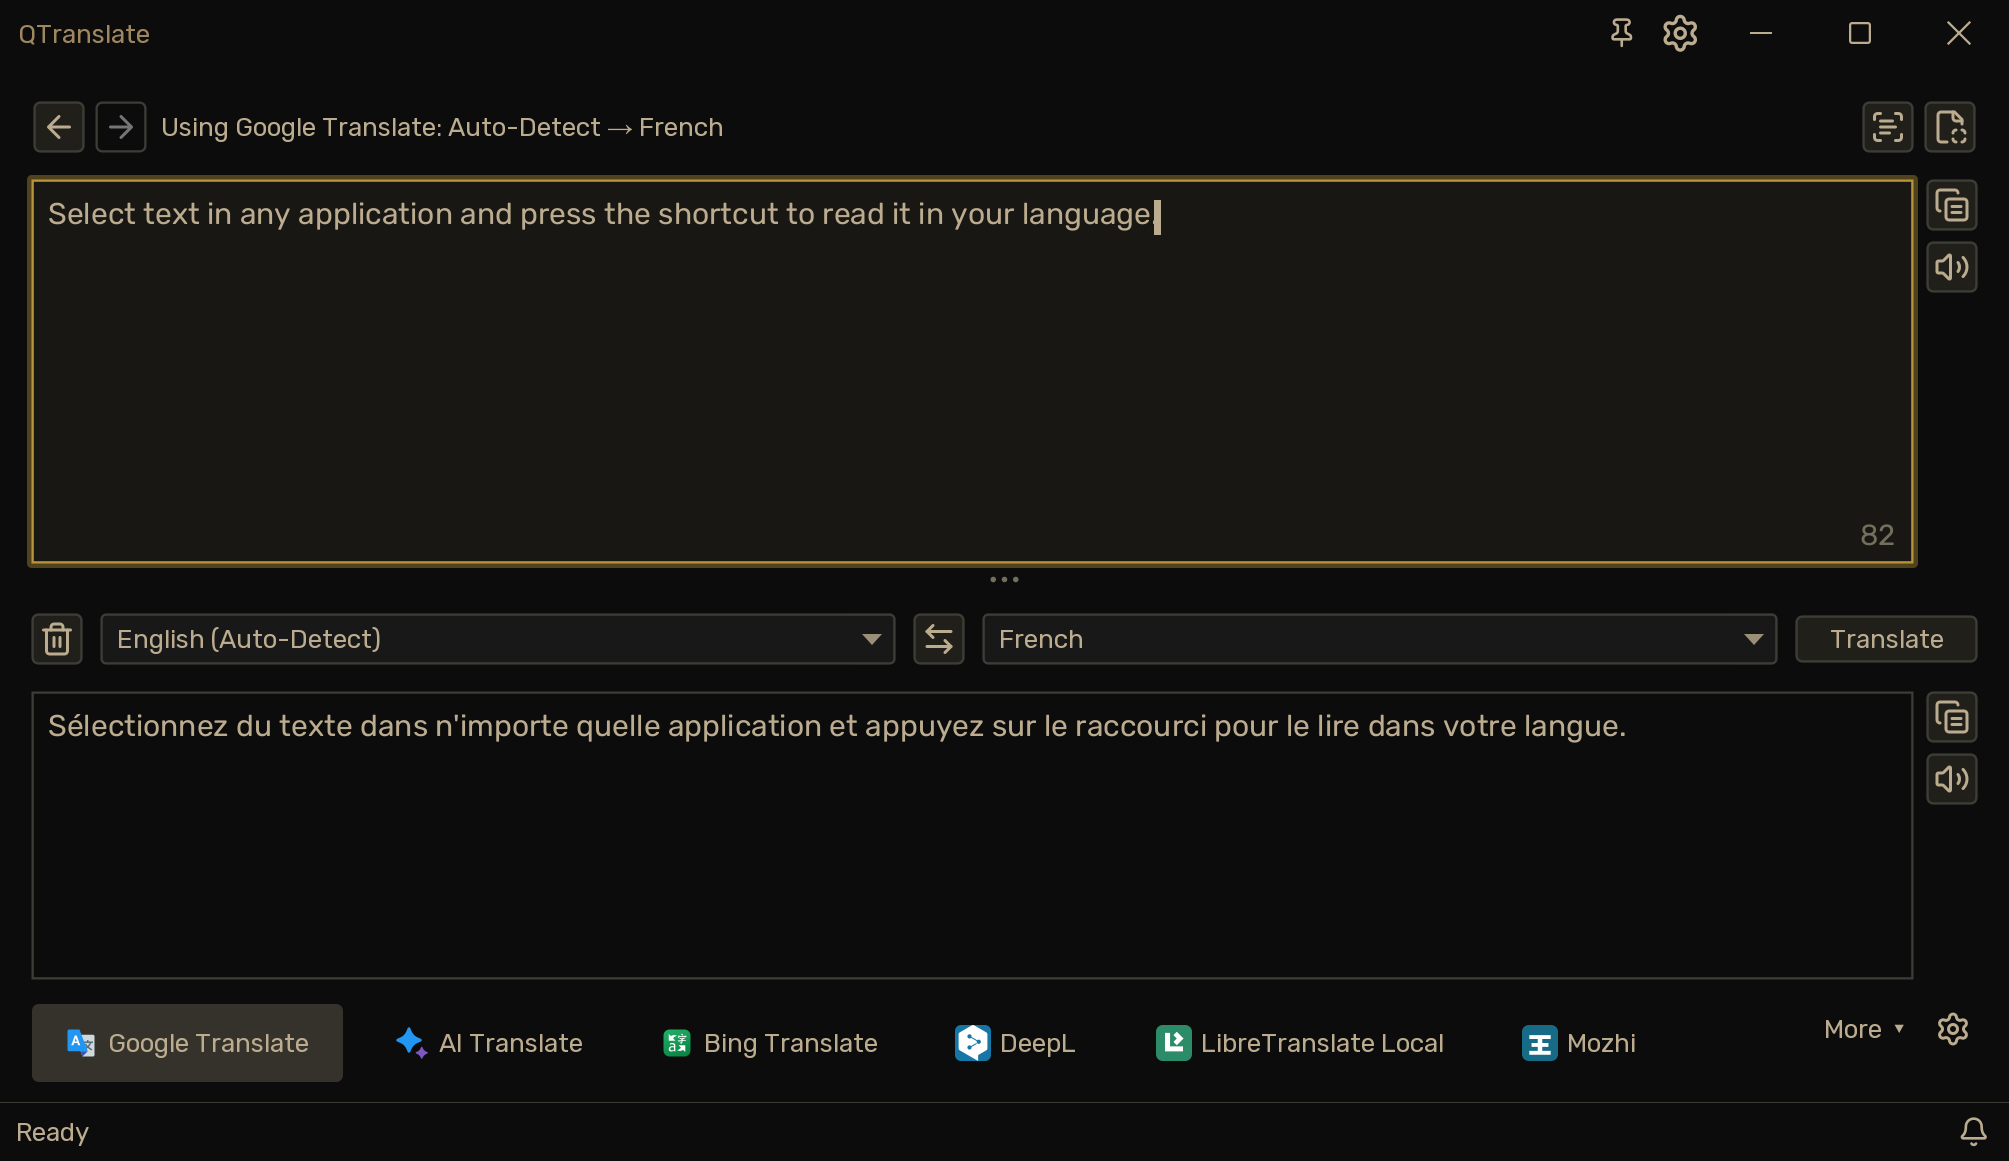
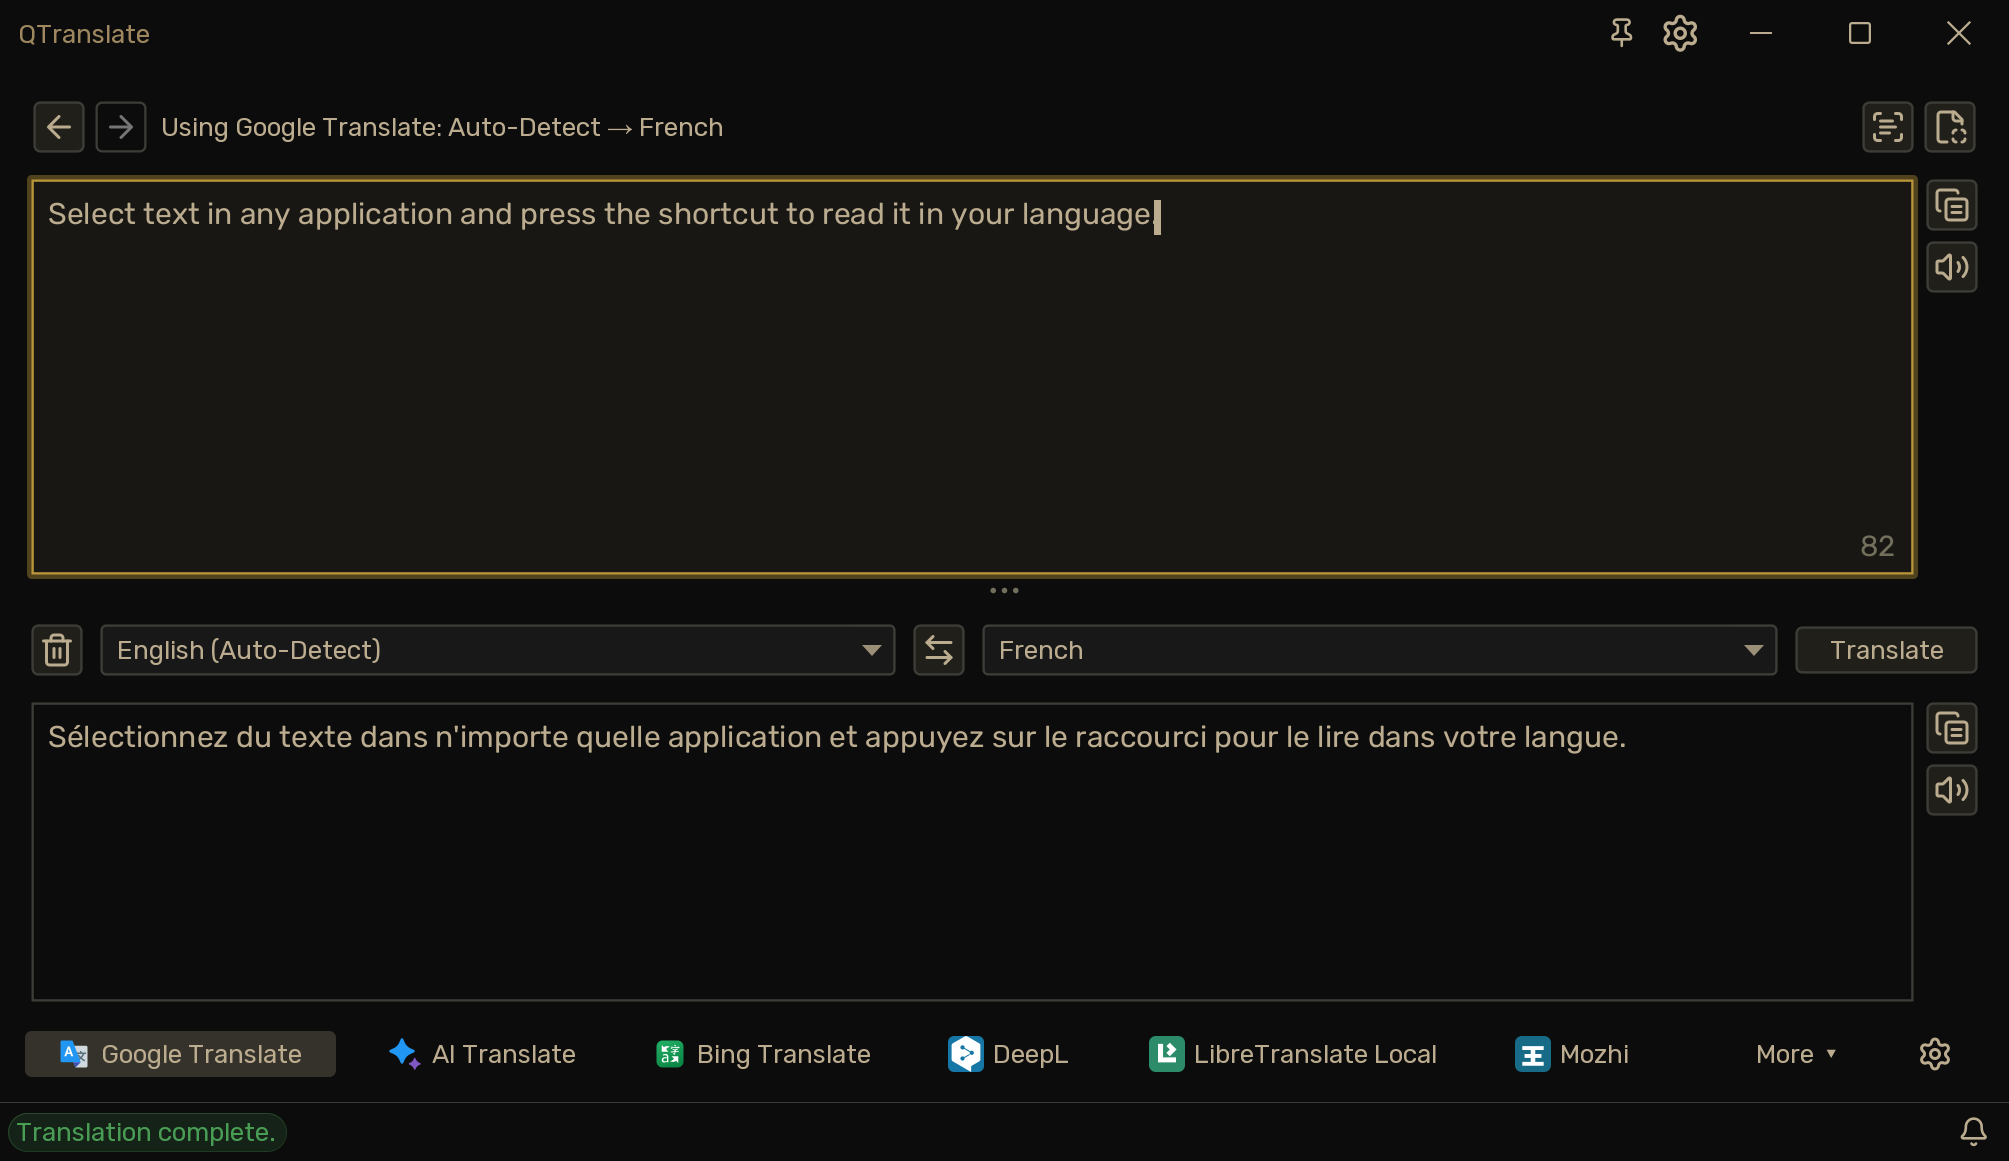
Tighten Classic selector to toolbar density

diff --git a/app/src/main/kotlin/com/github/ahatem/qtranslate/app/screenshots/ScreenshotMain.kt b/app/src/main/kotlin/com/github/ahatem/qtranslate/app/screenshots/ScreenshotMain.kt
@@ -13,6 +13,7 @@ import com.github.ahatem.qtranslate.core.main.mvi.MainIntent
 import com.github.ahatem.qtranslate.core.main.domain.model.ComparisonStatus
 import com.github.ahatem.qtranslate.core.settings.data.Configuration
 import com.github.ahatem.qtranslate.core.settings.data.ServicePreset
+import com.github.ahatem.qtranslate.core.settings.data.ServiceSelectorStyle
 import com.github.ahatem.qtranslate.core.settings.data.SettingsRepository
 import com.github.ahatem.qtranslate.core.settings.data.Size
 import com.github.ahatem.qtranslate.core.settings.mvi.SettingsIntent
@@ -99,7 +100,10 @@ fun main(args: Array<String>): Unit = runBlocking {
     } ?: logger.warn("No services became available; shots will show the empty state.")
 
     with(Shots(deps, outputDir, logger)) {
-        if (System.getenv("QTRANSLATE_SCREENSHOT_SCENES") == "presentation") {
+        if (System.getenv("QTRANSLATE_SCREENSHOT_SCENES") == "selector") {
+            selectorAudit()
+            selectorDensityAudit()
+        } else if (System.getenv("QTRANSLATE_SCREENSHOT_SCENES") == "presentation") {
             mainWindow()
             layouts()
             selectorAudit()
@@ -140,6 +144,7 @@ private class Shots(
     private val logger: Logger,
 ) {
     private var frame: MainAppFrame? = null
+    private var sceneScalePercent = Scenes.SCALE_PERCENT
 
     // ── main window ───────────────────────────────────────────────────────────
 
@@ -233,6 +238,21 @@ private class Shots(
         capture("classic-selector-dark")
         resizeWindow(Scenes.NARROW_WINDOW)
         capture("classic-selector-narrow-dark")
+    }
+
+    suspend fun selectorDensityAudit() {
+        start(Scenes.classicSelector(Scenes.DARK).copy(
+            uiScale = 100,
+            mainWindowSize = Size(Scenes.WINDOW.first, Scenes.WINDOW.second)
+        ))
+        translate(LanguageCode("fr"), Scenes.SELECTION)
+        capture("classic-selector-wide-100-dark")
+        resizeWindow(Scenes.NARROW_WINDOW)
+        capture("classic-selector-narrow-100-dark")
+
+        start(Scenes.arabic("classic").copy(serviceSelectorStyle = ServiceSelectorStyle.CLASSIC))
+        translate(LanguageCode("en"), Scenes.ARABIC_PERISTALSIS)
+        capture("classic-selector-rtl-dark")
     }
 
     suspend fun settingsDensityAudit() {
@@ -420,6 +440,7 @@ private class Shots(
      * the application quitting and calls `exitProcess`, so disposing one would end the run.
      */
     private suspend fun start(configuration: Configuration) {
+        sceneScalePercent = configuration.uiScale
         deps.settingsStore.dispatch(SettingsIntent.ToggleSetting { configuration })
         delay(900)
 
@@ -485,7 +506,10 @@ private class Shots(
         onUi {
             requireFrame().apply {
                 minimumSize = Dimension(0, 0)
-                setSize(windowSize(size).width, windowSize(size).height)
+                setSize(
+                    size.first * sceneScalePercent / 100,
+                    size.second * sceneScalePercent / 100
+                )
             }
         }
         delay(800)

diff --git a/ui-swing/src/main/kotlin/com/github/ahatem/qtranslate/ui/swing/main/selector/TranslatorSelector.kt b/ui-swing/src/main/kotlin/com/github/ahatem/qtranslate/ui/swing/main/selector/TranslatorSelector.kt
@@ -30,11 +30,13 @@ class TranslatorSelector(
     private var remainingButtons: List<JToggleButton> = emptyList()
     private val overflowMenu = JButton("More ▾").apply {
         putClientProperty(FlatClientProperties.BUTTON_TYPE, "toolBarButton")
+        margin = compactButtonMargin()
         toolTipText = "All services"
         addActionListener { showOverflowMenu(this) }
     }
     private val configureActive = JButton(iconManager.getIcon(Icons.SETTINGS, 16, 16)).apply {
         putClientProperty(FlatClientProperties.BUTTON_TYPE, "toolBarButton")
+        margin = compactButtonMargin()
         toolTipText = "Configure active translation service"
         addActionListener { state.selectedTranslatorId?.let(onConfigureService) }
     }
@@ -78,7 +80,7 @@ class TranslatorSelector(
                 toolTipText = service.name; isSelected = service.id == selected?.id
                 isEnabled = !state.isLoading; isOpaque = false
                 putClientProperty(FlatClientProperties.BUTTON_TYPE, "toolBarButton")
-                margin = Insets(UIScale.scale(4), UIScale.scale(6), UIScale.scale(4), UIScale.scale(6))
+                margin = compactButtonMargin()
                 addActionListener { onServiceSelected(ServiceRole.TRANSLATOR, service.id) }
                 addMouseListener(object : MouseAdapter() {
                     override fun mousePressed(e: MouseEvent) { if (SwingUtilities.isRightMouseButton(e)) onConfigureService(service.id) }
@@ -173,6 +175,10 @@ class TranslatorSelector(
     }
 
     private fun loadIcon(service: ServiceInfo): Icon? = service.iconPath?.let { iconManager.getIcon(service.id, it, ICON_SIZE, ICON_SIZE) }
+
+    private fun compactButtonMargin() = Insets(
+        UIScale.scale(1), UIScale.scale(6), UIScale.scale(1), UIScale.scale(6)
+    )
 
     private inner class ServiceRenderer : DefaultListCellRenderer() {
         override fun getListCellRendererComponent(list: JList<*>?, value: Any?, index: Int, isSelected: Boolean, cellHasFocus: Boolean): Component =

diff --git a/ui-swing/src/main/kotlin/com/github/ahatem/qtranslate/ui/swing/main/layout/Layouts.kt b/ui-swing/src/main/kotlin/com/github/ahatem/qtranslate/ui/swing/main/layout/Layouts.kt
@@ -1,6 +1,7 @@
 package com.github.ahatem.qtranslate.ui.swing.main.layout
 
 import com.github.ahatem.qtranslate.ui.swing.shared.util.clearBorder
+import com.formdev.flatlaf.util.UIScale
 import com.github.ahatem.qtranslate.core.settings.data.LayoutPresetIds
 import java.awt.*
 import javax.swing.*
@@ -110,22 +111,17 @@ object LayoutBuilders {
         }
     }
 
-    fun wrapWithPadding(component: JComponent): JComponent {
-        return JPanel(BorderLayout()).apply {
-            border = BorderFactory.createEmptyBorder(0, UISpacing.PADDING, 0, UISpacing.PADDING)
-            add(component, BorderLayout.CENTER)
-        }
-    }
-
     fun createBottomBar(translatorSelector: JComponent, statusBar: JComponent): JComponent {
-        return JPanel().apply {
-            layout = BoxLayout(this, BoxLayout.Y_AXIS)
-
-            val paddedTranslatorSelector = wrapWithPadding(translatorSelector)
-
-            add(paddedTranslatorSelector)
-            add(Box.createRigidArea(Dimension(0, UISpacing.V_GAP)))
-            add(statusBar)
+        return JPanel(BorderLayout(0, UIScale.scale(4))).apply {
+            val selectorRow = JPanel(BorderLayout()).apply {
+                border = BorderFactory.createEmptyBorder(
+                    UIScale.scale(2), UIScale.scale(9),
+                    UIScale.scale(2), UIScale.scale(9)
+                )
+                add(translatorSelector, BorderLayout.CENTER)
+            }
+            add(selectorRow, BorderLayout.NORTH)
+            add(statusBar, BorderLayout.SOUTH)
         }
     }
 

diff --git a/ui-swing/src/test/kotlin/com/github/ahatem/qtranslate/ui/swing/main/layout/LayoutSystemTest.kt b/ui-swing/src/test/kotlin/com/github/ahatem/qtranslate/ui/swing/main/layout/LayoutSystemTest.kt
@@ -4,6 +4,7 @@ import com.github.ahatem.qtranslate.core.settings.data.LayoutPresetIds
 import java.awt.BorderLayout
 import java.awt.Component
 import java.awt.Container
+import java.awt.Dimension
 import javax.swing.JPanel
 import javax.swing.JTabbedPane
 import javax.swing.SwingUtilities
@@ -141,6 +142,21 @@ class LayoutSystemTest {
     private fun layoutTree(root: Container) {
         root.doLayout()
         root.components.forEach { if (it is Container) layoutTree(it) }
+    }
+
+    @Test
+    fun `the selector row keeps its preferred height when the bottom bar has spare space`() {
+        val selector = JPanel().apply { preferredSize = Dimension(300, 24) }
+        val status = JPanel().apply { preferredSize = Dimension(300, 20) }
+        val bottomBar = LayoutBuilders.createBottomBar(selector, status)
+
+        SwingUtilities.invokeAndWait {
+            bottomBar.setSize(800, 200)
+            layoutTree(bottomBar)
+        }
+
+        assertEquals(24, selector.height)
+        assertEquals(20, status.height)
     }
 
     @Test

diff --git a/docs/images/gallery/README.md b/docs/images/gallery/README.md
@@ -14,7 +14,7 @@ smaller tour; its main images are copied to `docs/images/`.
 | --- | --- |
 | `hero-dark` | Translation, backward translation and a docked dictionary |
 | `quick-translate-dark` | The <kbd>Ctrl+Q</kbd> popup for selected text |
-| `classic-selector-dark` | One-click services with the active provider and a single More menu |
+| `classic-selector-dark`, `classic-selector-narrow-dark` | Compact one-click services at wide and narrow widths, with the active provider and a single More menu |
 | `layout-comparison-dark` | Google, Bing, DeepL and Yandex results in one configured Comparison set |
 | `dictionary-quick-dark` | The floating dictionary popup for selected words |
 | `dock-images-dark`, `dock-image-viewer-dark` | Image results and the opened viewer with source credit |
@@ -35,3 +35,5 @@ Review the generated candidates in `build/screenshots/`, then copy only the sele
 Use `QTRANSLATE_SCREENSHOT_SCENES=presentation` to regenerate the visual audit scenes, including
 the Classic selector at two widths and Settings at 100%. The regular run includes the full
 candidate set and Settings at 200%.
+Use `QTRANSLATE_SCREENSHOT_SCENES=selector` to capture only the Classic selector density audit
+at 100% and 200%, plus RTL.
